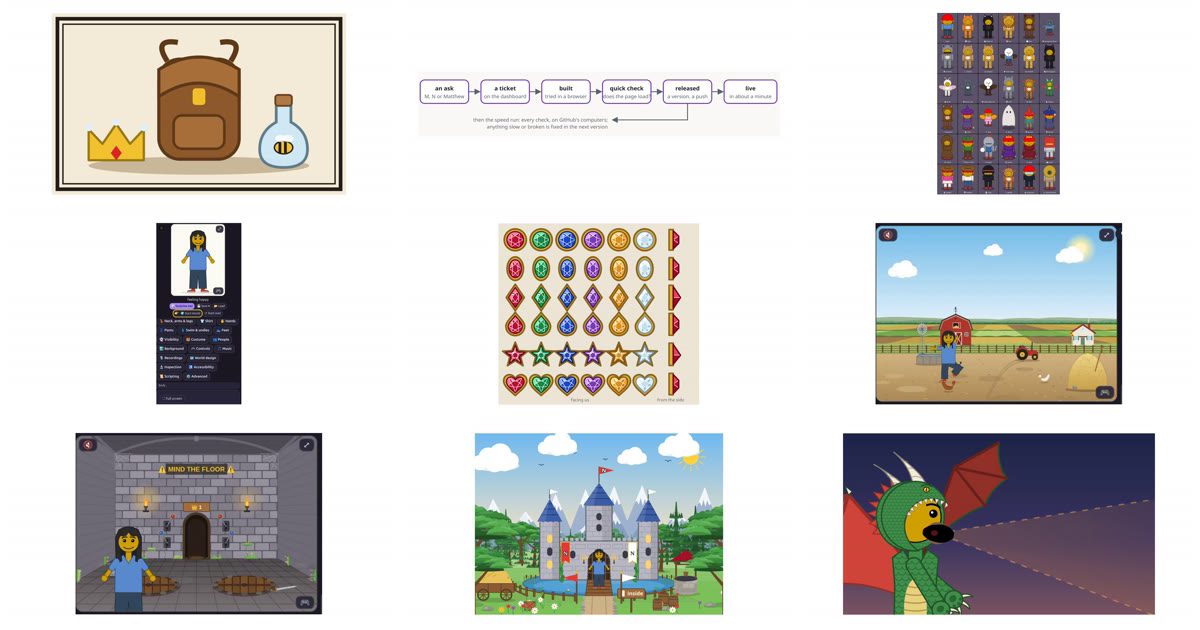
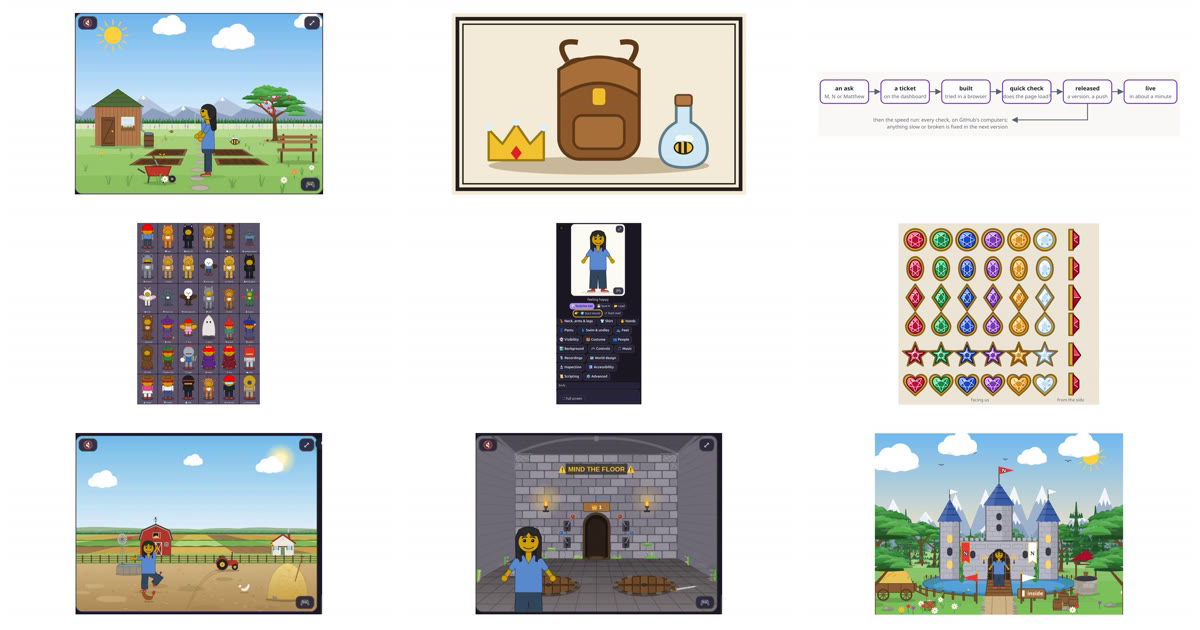
^du_report(24)'s link preview, and the series index's with it

diff --git a/dress-up/reports/024/index.html b/dress-up/reports/024/index.html
@@ -6,6 +6,17 @@
 <script>try { var t = localStorage.getItem("theme"); if (t === "light" || t === "dark") document.documentElement.setAttribute("data-theme", t); } catch (e) {}</script>
 <meta name="viewport" content="width=device-width, initial-scale=1">
 <title>Night, Day and the Garden in Messed Up Dress Up</title>
+<!-- og: begin (tools/og_previews.py in matthewhammer.github.io: the link preview's text and picture) -->
+<meta property="og:type" content="article">
+<meta property="og:title" content="Night, Day and the Garden in Messed Up Dress Up">
+<meta property="og:description" content="The retro manual&#x27;s second part, for M and N trying out the garden: a sword that cuts, what is cut stays cut, night and day, time for bed, plants that grow back, the 🌻 garden and the 💧 spring, with a quick card at the end. Every new thing from 0.0.465 to 0.0.471. From ^ticket(661).">
+<meta property="og:url" content="https://matthewhammer.org/kids-choice-games/dress-up/reports/024/">
+<meta property="og:image" content="https://matthewhammer.org/kids-choice-games/dress-up/reports/024/og.png">
+<meta property="og:image:width" content="1200">
+<meta property="og:image:height" content="630">
+<meta name="twitter:card" content="summary_large_image">
+<meta name="twitter:image" content="https://matthewhammer.org/kids-choice-games/dress-up/reports/024/og.png">
+<!-- og: end -->
 <link rel="preconnect" href="https://fonts.googleapis.com"><link rel="preconnect" href="https://fonts.gstatic.com" crossorigin>
 <link href="https://fonts.googleapis.com/css2?family=Literata:ital,opsz,wght@0,7..72,400;0,7..72,600;1,7..72,400&family=Press+Start+2P&family=VT323&display=swap" rel="stylesheet">
 <style>
